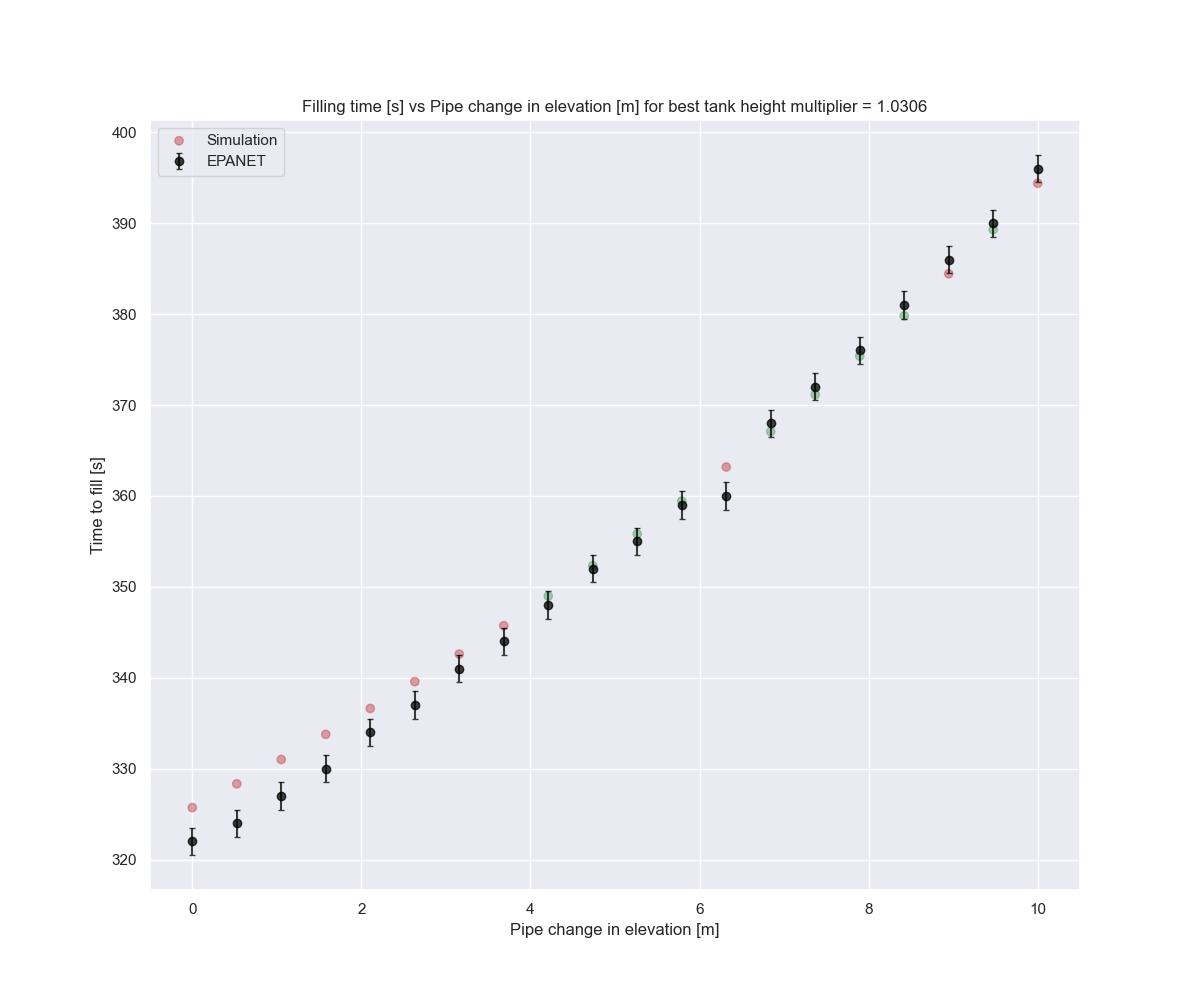
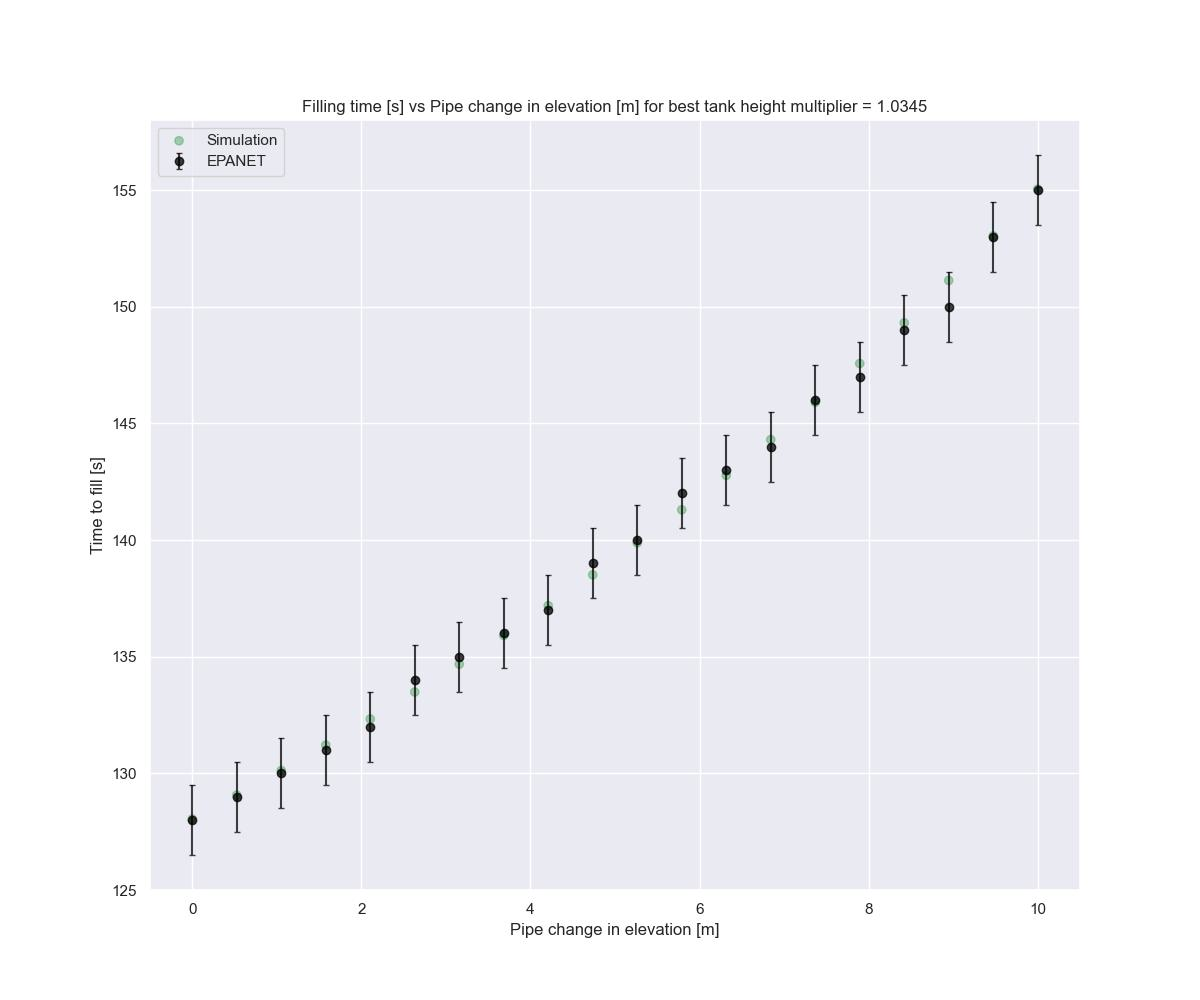
tried tank height method with different pipe length and friction factor -> similar results!

diff --git a/experiment_effects_of_tank_height.py b/experiment_effects_of_tank_height.py
@@ -8,6 +8,25 @@ import seaborn as sns
 import matplotlib.pyplot as plt
 import matplotlib
 
+"""
+Effects of Tank Height
+_______________________
+
+Seeing how different tank heights affect filling time in our EPANET simulations. Ideally, we would be able to use
+this as a way to model the growing resistance in a pipe as it fills, since tanks fill from the bottom, the more
+water that is pumped in it, the more it resists being filled and so should slow down the filling. The issue with this
+is that tank heights are currently set as a multiple of the height difference, which shouldn't be correlated with the
+internal pipe friction.
+
+Alternatively, variable tank height could be used to compensate for the gravitational effects of slanted pipes. For
+example, a pipe sloped upwards receives more gravitational resistance the fuller the pipe is because the effective
+mass increases, and thus the resistive force. For a downwards sloping pipe, this should be the opposite as the
+water will accelerate the more there is in the pipe (however, since we can't remove resistance with a tank this
+is tricky).
+
+"""
+
+
 # set seaborn theme
 cmap = sns.color_palette("coolwarm", as_cmap=True)
 sns.set_theme()
@@ -106,12 +125,11 @@ def run_tank_height_multiplier_simulations_height(pipe_heights, tank_height_mult
 
 if __name__ == "__main__":
     heights = np.linspace(0, 10, 20)
-    tank_height_multipliers = np.linspace(0.1, 1.3, 30)
-    pipe_length = 1050
+    tank_height_multipliers = np.linspace(0.8, 1.2, 30)
+    pipe_length = 550
     diameter = 0.3
     pressure = 20
     roughness = 100
-    tank_height_multiplier = 0.5
 
     simulation_fill_times, epanet_fill_times_by_thm, best_thm_index = run_tank_height_multiplier_simulations_height(
         pipe_heights=heights,

diff --git a/experiment_effects_of_height.py b/experiment_effects_of_height.py
@@ -18,7 +18,7 @@ def run_ff_simulations_up(heights, pipe_length, diameter, pressure, roughness):
         epanet_fill_times.append(
             create_and_run_epanet_simulation(pipe_length, diameter, pressure, roughness, height, template_filepath,
                                              strategy=Strategy.SINGLE_TANK_CV_CONSTANT_PRESSURE,
-                                             tank_height_multiplier=0.92))
+                                             tank_height_multiplier=0.93))
 
         # run numerical integration for different ff
         converter = PipeConverter()
@@ -30,7 +30,7 @@ def run_ff_simulations_up(heights, pipe_length, diameter, pressure, roughness):
 
 if __name__ == "__main__":
     heights = np.linspace(0, 10, 40)
-    pipe_length = 1050
+    pipe_length = 550
     diameter = 0.3
     pressure = 20
     roughness = 100

diff --git a/experiment_find_optimal_friction_factor.py b/experiment_find_optimal_friction_factor.py
@@ -299,7 +299,7 @@ def run_experiments():
     Friction factor changes over pressure
     :return:
     """
-    pipe_lengths = list(np.linspace(950, 1050, 20))
+    pipe_lengths = list(np.linspace(500, 600, 20))
     friction_factors = np.linspace(0.02, 0.04, 100)
 
     # default params are pressure head of 20 and 300mm diameter

diff --git a/FrictionFactorCalculator.py b/FrictionFactorCalculator.py
@@ -48,5 +48,5 @@ class FrictionFactorCalculator:
     def get_friction_factor(self) -> float:
         # 0.0263 for pressure 40
         # 0.0282 for pressure 20
-        return 0.0273
+        return 0.0261
         return self.lookup_table[self.length_closest][self.diameter_closest][self.pressure_closest]
